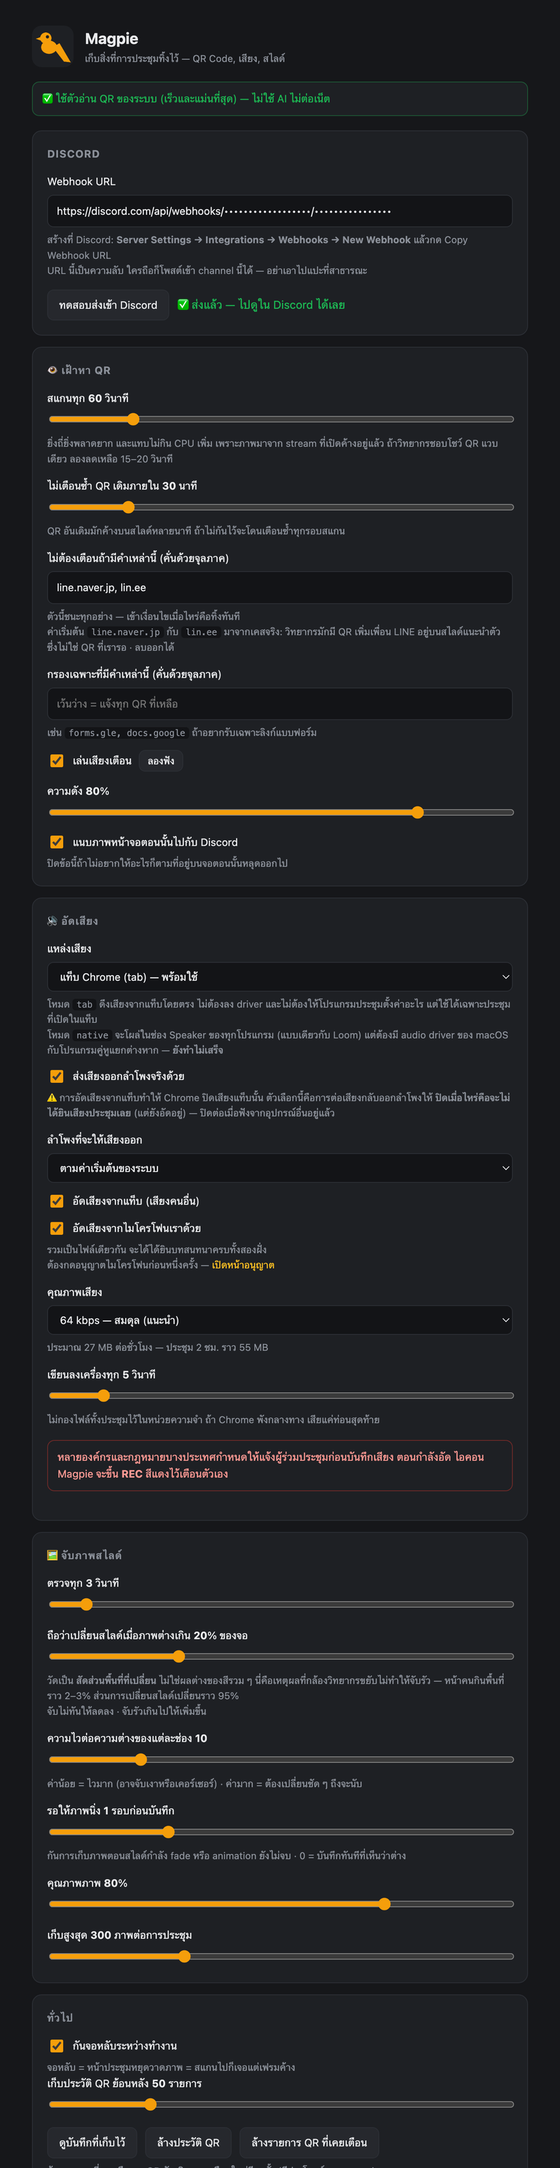
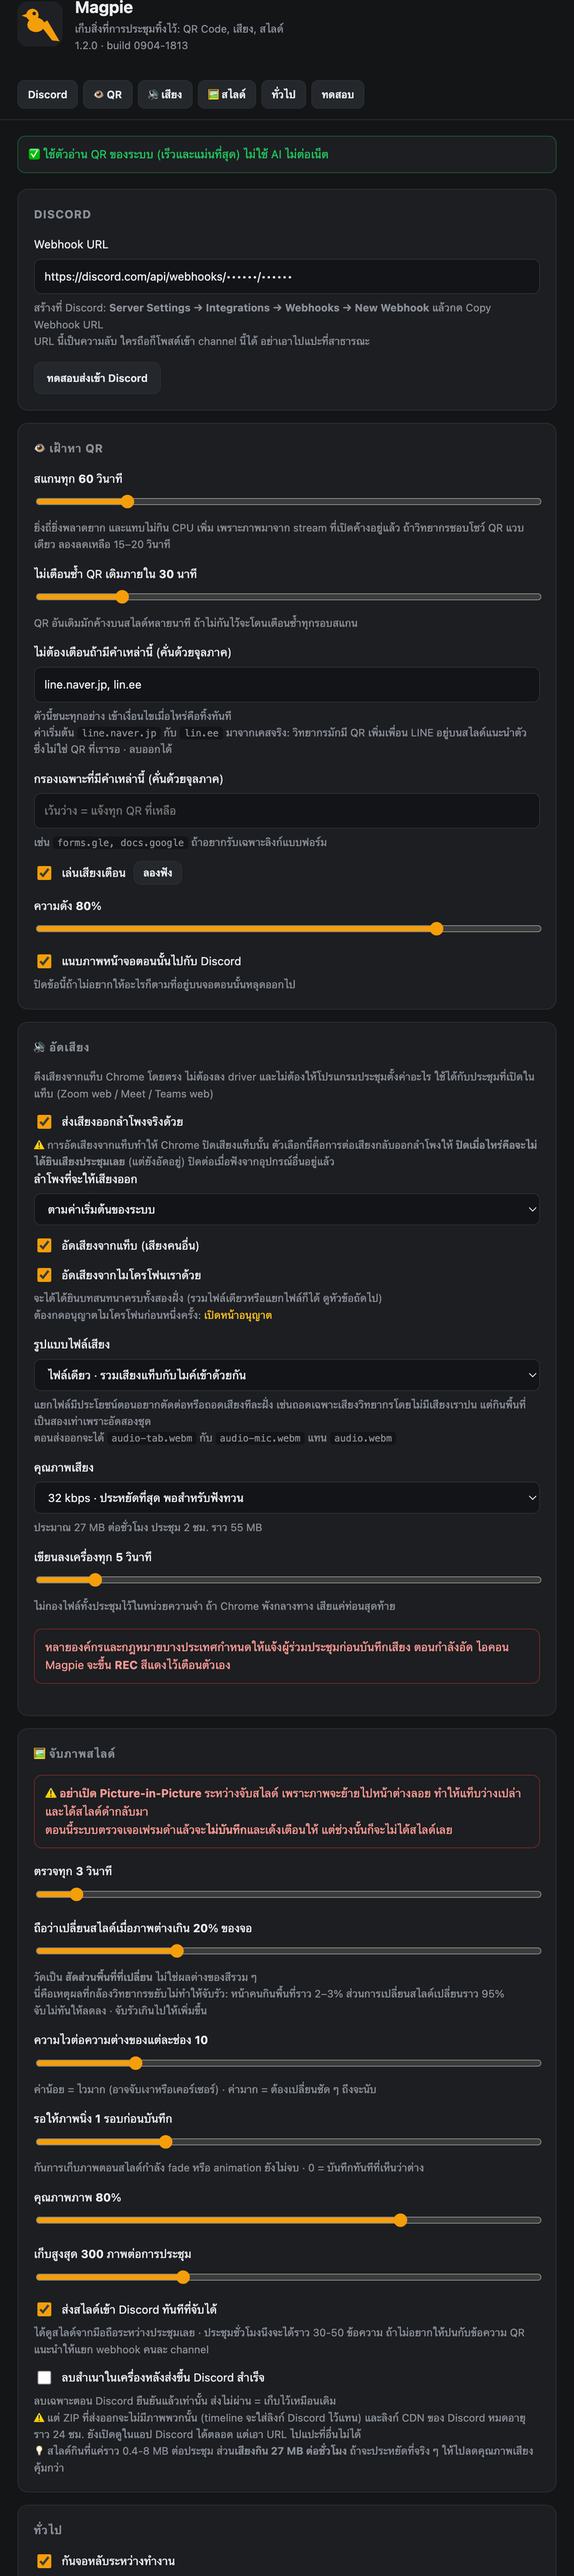
README: screenshot ใหม่ให้ตรงกับ UI ที่แก้ไปแล้ว
ภาพใน README ยังเป็นหน้าตาเก่าก่อนรื้อ ซึ่งแย่กว่าไม่มีภาพ เพราะคนอ่านจะเชื่อ
ตามภาพแล้วโหลดมาเจอคนละอย่าง

เปลี่ยนเป็นภาพคู่ ซ้ายตอนหยุด ขวาตอนทำงาน เพราะสองสถานะนี้ต่างกันมากพอที่จะ
เป็นจุดขายของการออกแบบรอบนี้ ภาพเดียวเล่าไม่ครบ

แก้ข้อความที่ตกยุคตามไปด้วย: หน้าทดสอบย้ายไปอยู่ในหน้าตั้งค่าแล้ว ไม่ได้อยู่
ท้าย popup · อัดเสียงเลือกได้แล้วว่าจะรวมไฟล์หรือแยก · เพิ่มเรื่อง build stamp
เพราะการโหลดแบบ unpacked แปลว่าต้องรู้ให้ได้ว่า Chrome โหลดโค้ดใหม่แล้วจริงไหม

Claude-Session: https://claude.ai/code/session_01VnZ6XabCYXCUEpWjWJAshD

diff --git a/README.md b/README.md
@@ -9,13 +9,14 @@ A Chrome extension that watches any meeting tab and keeps the parts worth keepin
 ![Local](https://img.shields.io/badge/processing-100%25%20local-1db954)
 
 <p align="center">
-  <img src="docs/popup.png" width="360" alt="Magpie popup with all three tools running">
+  <img src="docs/popup.png" width="720" alt="The popup stopped, and the popup while running">
+  <br><em>Stopped: arm the tools and start. Running: live counters, audio meters, and nothing you can accidentally change mid-session.</em>
 </p>
 
 | | |
 |---|---|
 | 👁 **Watch** | Finds QR codes on screen, alerts you, and pushes the link to Discord |
-| 🔊 **Listen** | A virtual speaker — audio still plays normally while a copy is recorded locally, mixed with your microphone |
+| 🔊 **Listen** | A virtual speaker: audio still plays normally while a copy is recorded locally, with your microphone mixed in or kept as a separate file |
 | 🖼 **Collect** | Saves a screenshot every time the slide actually changes, decided by comparing images on your machine — optionally pushing each one to Discord as it happens |
 
 Works with any meeting that runs in a Chrome tab: Zoom web client, Google Meet, Microsoft Teams, Webex, or a livestream. Nothing in it is tied to a particular platform — it reads pixels and audio from the tab you point it at.
@@ -238,13 +239,15 @@ Tools can't be switched mid-session: they decide what the capture asks Chrome fo
   <img src="docs/options.png" width="620" alt="Options page">
 </p>
 
-Everything is adjustable: scan intervals, re-alert cooldown, deny- and allow-lists, alert sound and volume, whether snapshots reach Discord, audio bitrate and chunk size, one-file-or-two, passthrough and output device, microphone selection, and every threshold in the slide detector.
+Everything is adjustable: scan intervals, re-alert cooldown, deny- and allow-lists, alert sound and volume, audio bitrate and chunk size, one-file-or-two, passthrough and output device, microphone selection, whether slides go to Discord as they are captured, and every threshold in the slide detector.
+
+The popup and the options page both print the loaded build (`1.2.0 · build 0904-1813`). Loading unpacked means iterating on code Chrome has already cached, and "did the reload take?" is otherwise a guess that costs a whole test round.
 
 ---
 
 ## Testing without a real meeting
 
-Two harnesses ship with the extension, reachable from the popup footer.
+Two harnesses ship with the extension, under **Options → ทดสอบ**.
 
 **`test/qr-test.html`** — a QR appears after a countdown, at a size you choose, with a swappable payload and a dark-background mode. One of the three codes points at `lin.ee`, so you can watch the deny-list work.
 
